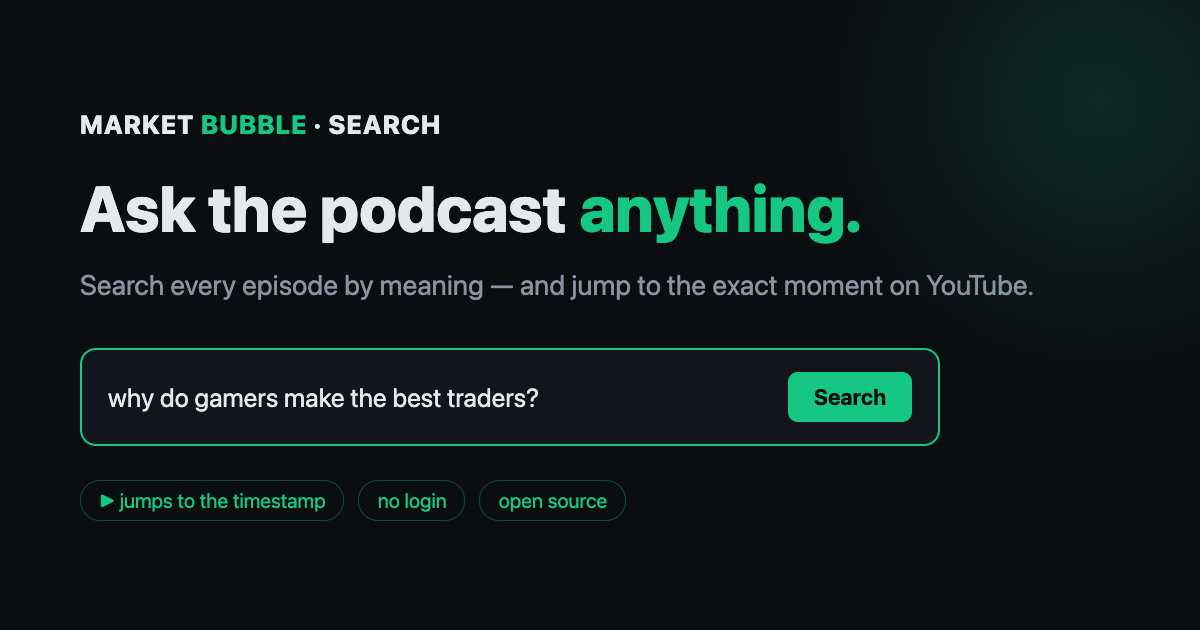
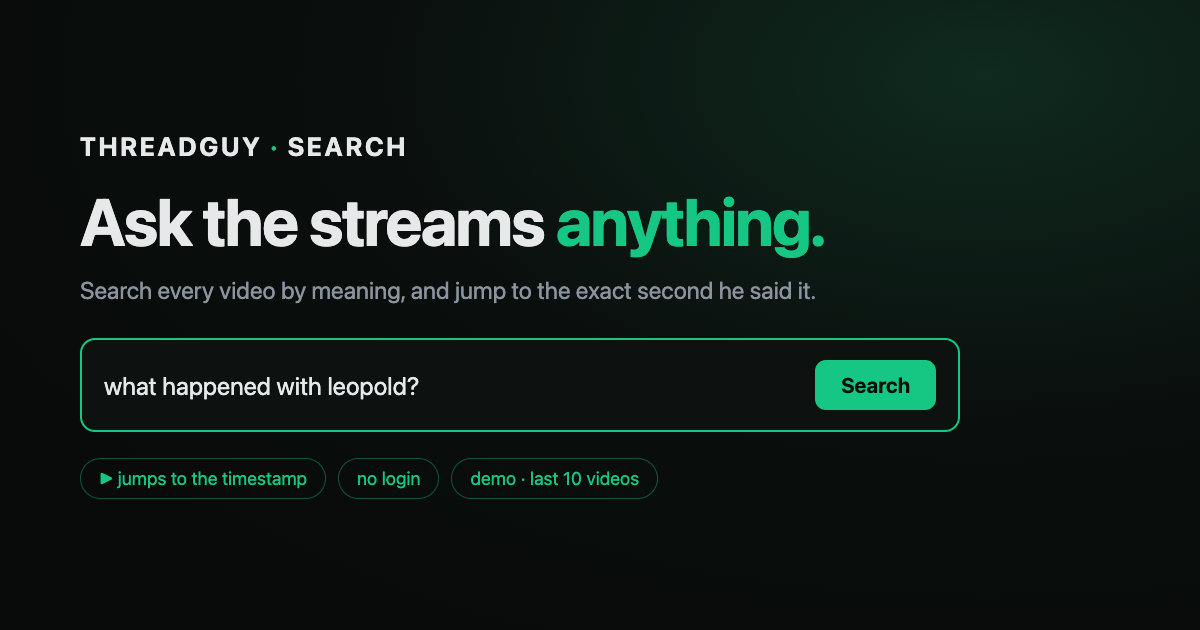
Send the hits event as a bare array
The page passes the hits event's parsed payload straight to renderHits, so
wrapping it in {"hits": [...]} when this service was rewritten meant the
timestamp cards silently rendered 'No matching moments found' while the
answer streamed in perfectly.

The jump-to-the-moment links are the entire point of this thing, and they
were missing from a page that otherwise looked like it worked.

Also swaps the borrowed Market Bubble share card for a real one.

Changed region(s): [[0.0617, 0.5127, 0.8017, 0.8143], [0.0617, 0.2714, 0.8633, 0.4825], [0.0617, 0.181, 0.37, 0.2714]]

diff --git a/app/main.py b/app/main.py
@@ -151,7 +151,11 @@ async def search_stream(
 
     async def event_source():
         try:
-            payload = json.dumps({"hits": [h.model_dump() for h in hits]})
+            # A bare array, not an object. The page passes this event's parsed
+            # payload straight to renderHits, so wrapping it in {"hits": ...}
+            # silently rendered "no matching moments" while the answer streamed
+            # in fine — the timestamps, which are the whole point, vanished.
+            payload = json.dumps([h.model_dump() for h in hits])
             yield f"event: hits\ndata: {payload}\n\n"
             if not hits:
                 yield f"event: refusal\ndata: {json.dumps({'text': REFUSAL_ANSWER})}\n\n"
